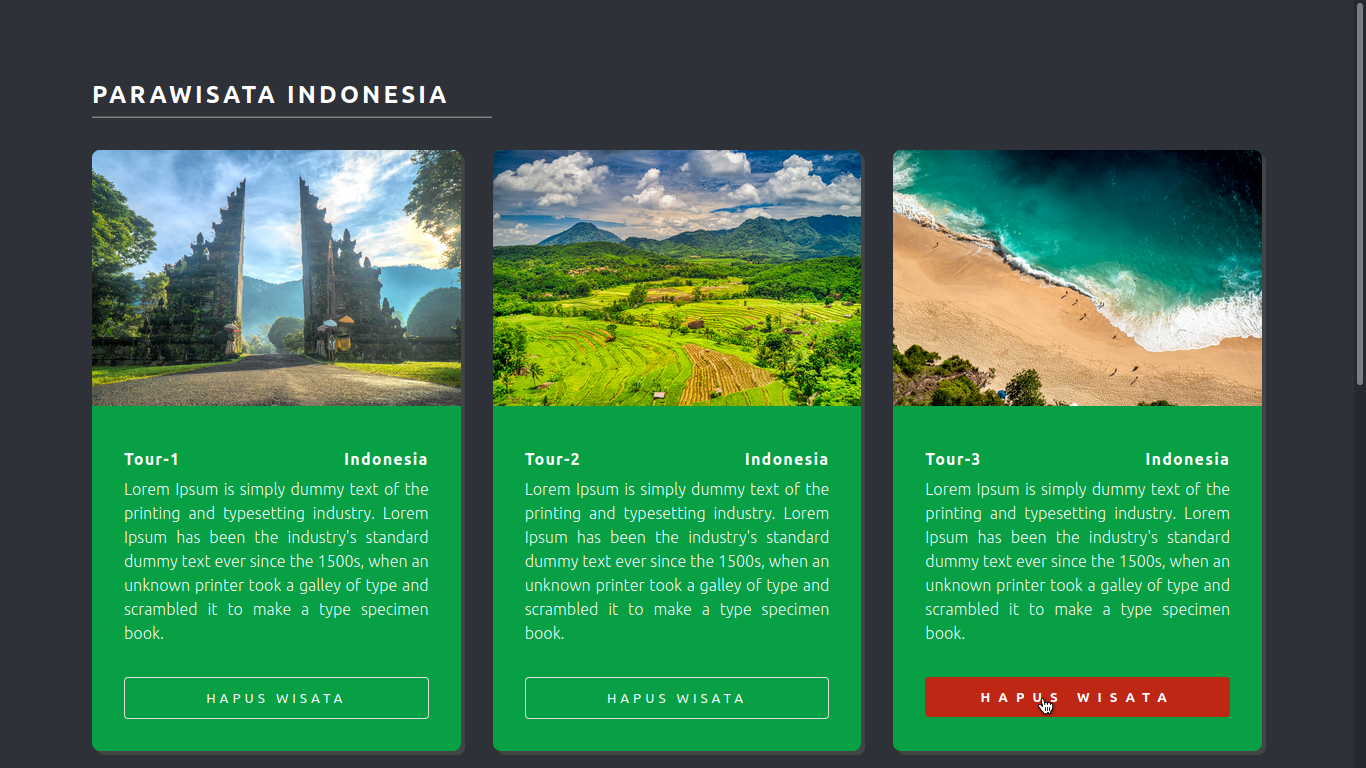
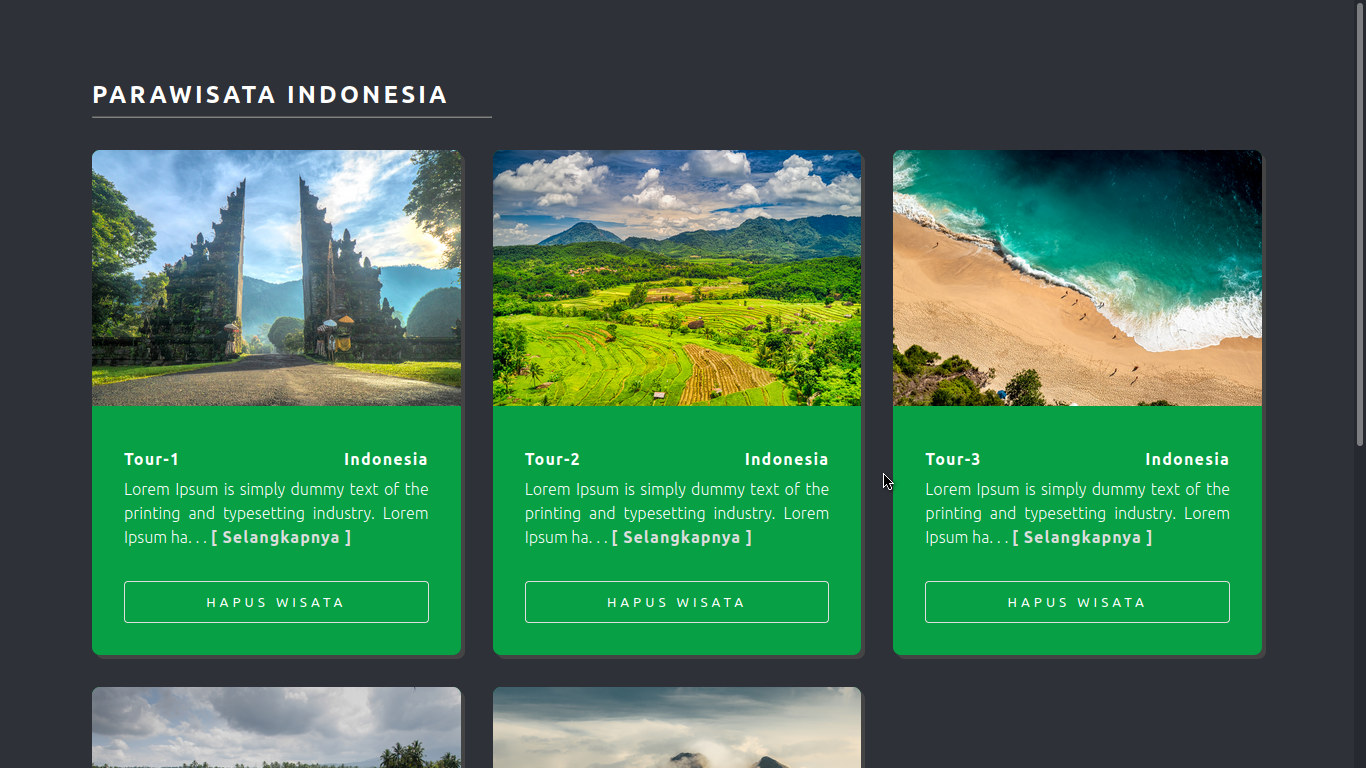
update readmore and fix solved card use align-start

Changed region(s): [[0.0615, 0.6875, 0.9224, 1.0], [0.9839, 0.5, 1.0, 0.5938]]

diff --git a/src/Components/SingleParawisata.js b/src/Components/SingleParawisata.js
@@ -1,6 +1,7 @@
-import React from 'react';
+import React, { useState } from 'react';
 
 const SingleParawisata = ({ id, name, img, country, info, removeWisata }) => {
+  const [readMore, setreadMore] = useState(false);
   return (
     <article className='wisata'>
       <img src={img} alt={name} />
@@ -9,7 +10,23 @@ const SingleParawisata = ({ id, name, img, country, info, removeWisata }) => {
           <h4>{name}</h4>
           <h4>{country}</h4>
         </div>
-        <p>{info}</p>
+        <p>
+          {readMore ? info : `${info.substring(0, 89)}. . . `}
+          <button
+            onClick={() => setreadMore(!readMore)}
+            style={{
+              border: 'none',
+              background: 'none',
+              color: '#ddd',
+              fontWeight: 'bold',
+              fontSize: '1rem',
+              cursor: 'pointer',
+              letterSpacing: '1px',
+            }}
+          >
+            {readMore ? '[ Lebih Sedikit ]' : '[ Selangkapnya ]'}
+          </button>
+        </p>
         <div className='center-btn'>
           <button onClick={() => removeWisata(id)}>hapus wisata</button>
         </div>

diff --git a/src/index.css b/src/index.css
@@ -124,10 +124,12 @@ img {
 .back-btn {
   display: block;
   padding: 1rem 2.5rem;
+  width: 100%;
+  font-size: 1.5rem;
   background: #2e3138;
   color: #fff;
   text-transform: uppercase;
-  letter-spacing: 1.2px;
+  letter-spacing: 0.5rem;
   border: none;
   border: 1px solid #ddd;
   border-radius: 0.5rem;
@@ -143,11 +145,13 @@ img {
 @media screen and (min-width: 720px) {
   .wisata_grid {
     grid-template-columns: repeat(auto-fit, minmax(300px, 1fr));
+    align-items: start;
   }
 }
 
 @media screen and (min-width: 920px) {
   .wisata_grid {
     grid-template-columns: repeat(auto-fit, minmax(360px, 1fr));
+    align-items: start;
   }
 }
